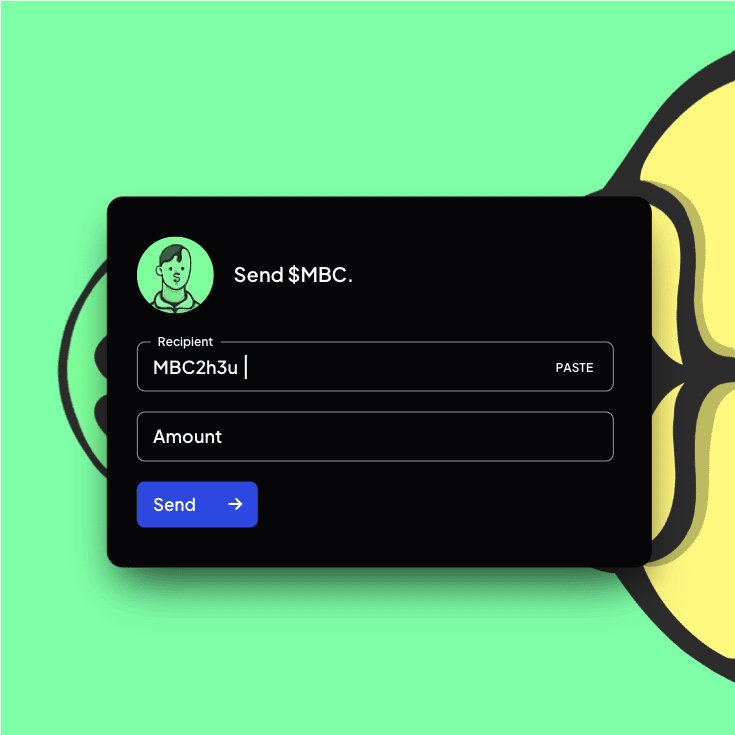
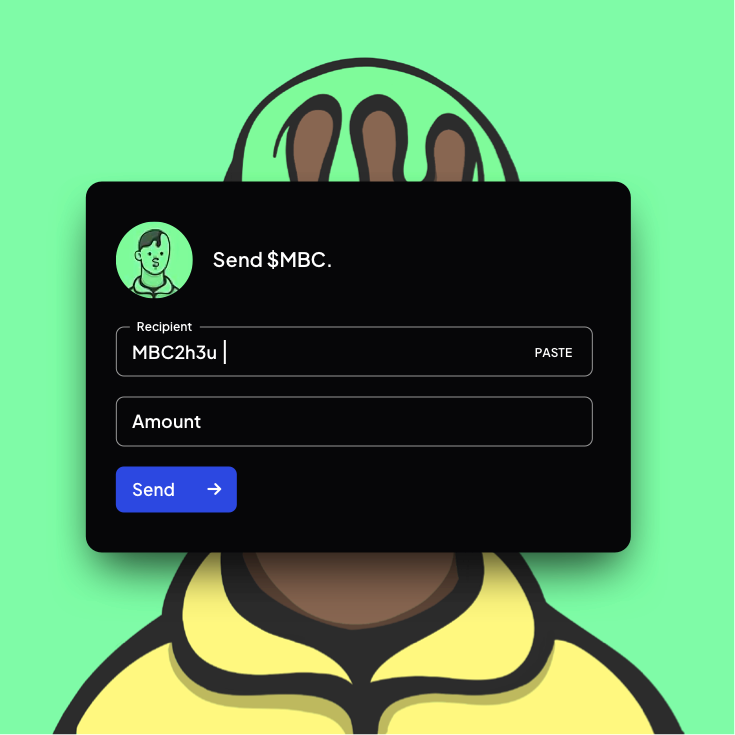
moneyboy coin section update

diff --git a/src/section/moneyboy-coin/index.js b/src/section/moneyboy-coin/index.js
@@ -27,16 +27,11 @@ function MoneyboyCoin() {
           paddingY: "150px",
         },
         [theme.breakpoints.down("md")]: {
-          backgroundImage: "url(/images/moneyboy-coin-sp.webp)",
-          backgroundPosition: "right calc(40% + 180px)",
-          padding: "120px 0 230px",
-          backgroundSize: "55% auto",
-        },
-        [theme.breakpoints.down("sm")]: {
-          backgroundPosition: "right calc(70% + 115px)",
-          padding: "120px 0 180px",
-          backgroundSize: "60% auto",
-        },
+          backgroundImage: "url(/images/moneyboy-coin-sp.png)",
+          backgroundPosition: "bottom center",
+          padding: "80px 0 84%",
+          backgroundSize: "80% auto",
+        }
       }}
     >
       <Container fixed>
